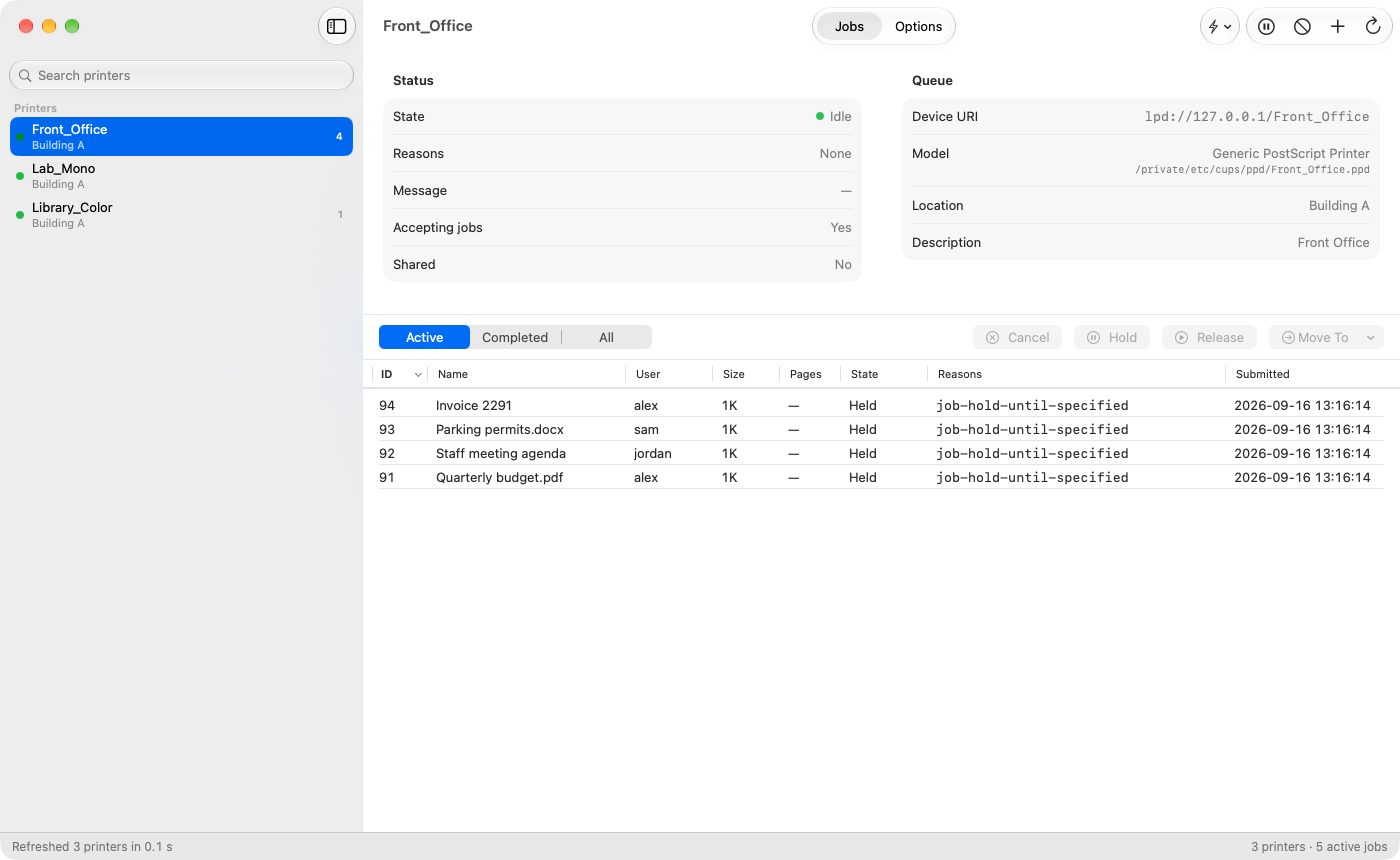
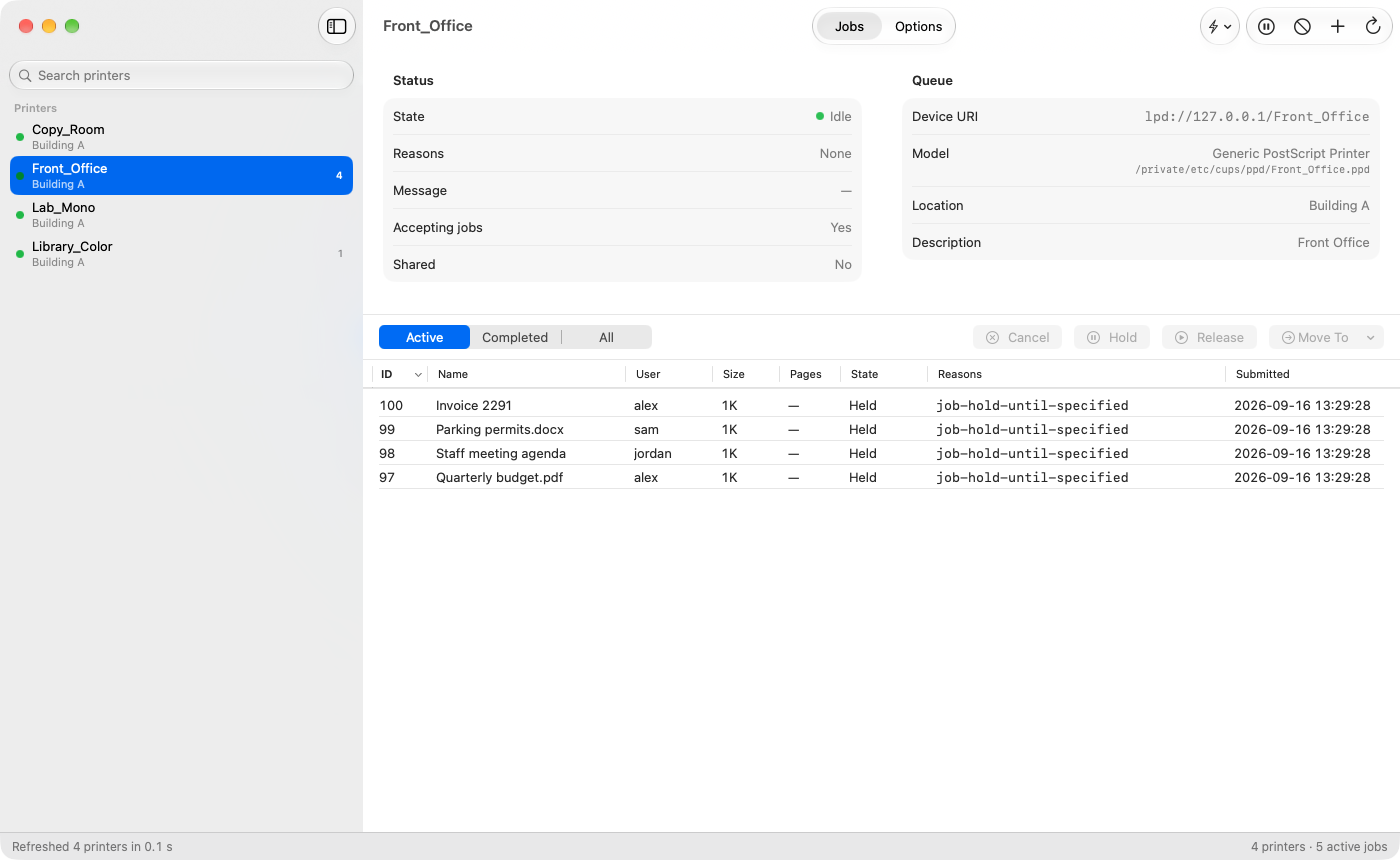
README: Options screenshot, captions, describe only what exists

Changed region(s): [[0.0, 0.1209, 0.2764, 0.3326], [0.9521, 0.4535, 0.9829, 0.5744]]

diff --git a/README.md b/README.md
@@ -1,12 +1,16 @@
 # CUPS Admin for macOS
 
 ![CUPS Admin showing the jobs on a printer](docs/screenshots/app-jobs.png)
+*Jobs: hold, release, move or cancel jobs on any queue.*
+
+![CUPS Admin showing a Ricoh queue's options](docs/screenshots/app-options.png)
+*Options: the queue's driver settings as a form, applied with `lpadmin` and read back.*
 
 **CUPS Admin** is a native macOS app that puts back the CUPS web interface (`http://localhost:631`) Apple removed in macOS 27 — `cupsd`, `lpadmin` and IPP Everywhere queues all still work, only the browser admin page is gone. The sidebar lists every queue with its state and active jobs; select one to see its status, hold, release, move or cancel its jobs, and change its default options the way the old "Set Default Options" page did, including per-driver settings like Ricoh user codes. Common changes (color or black & white, duplex, Letter paper, a user code, the default printer) are one-click Quick Actions, and every change is read back from cupsd so nothing fails silently. It ships with `cupsadmin`, a command-line tool for scripts, Mosyle/Jamf/Munki commands and quick checks. No third-party dependencies; builds with the Xcode Command Line Tools alone.
 
 ## Install
 
-> Status: the CLI is stable. The app (1.1) covers printers, jobs, queue options and quick actions; printer discovery, classes, the server page and the Attributes/Log tabs are still to come — see [Releases](../../releases).
+> Status: The CLI and app are both usable today; the app doesn't yet cover every page of the old web interface.
 
 Download the signed, notarized PKG from the latest [release](../../releases). It installs:
 
@@ -60,7 +64,7 @@ Which keywords an action writes comes from a driver profile (`Sources/CupsKit/Re
 | Ricoh M C251FW PS | ✓ color, black & white, duplex, Letter (no user code) |
 | Ricoh PCL (e.g. SP 3710DN) | ✓ duplex, Letter (generic) |
 | Any other PPD, IPP Everywhere / AirPrint | ✓ color, black & white, duplex, Letter where the queue supports them (generic) |
-| Canon, HP, Xerox, Konica Minolta user/department codes | not yet — contribute a profile |
+| Canon, HP, Xerox, Konica Minolta user/department codes | no built-in profile — add one (below) |
 
 ### Adding your printer's driver
 
